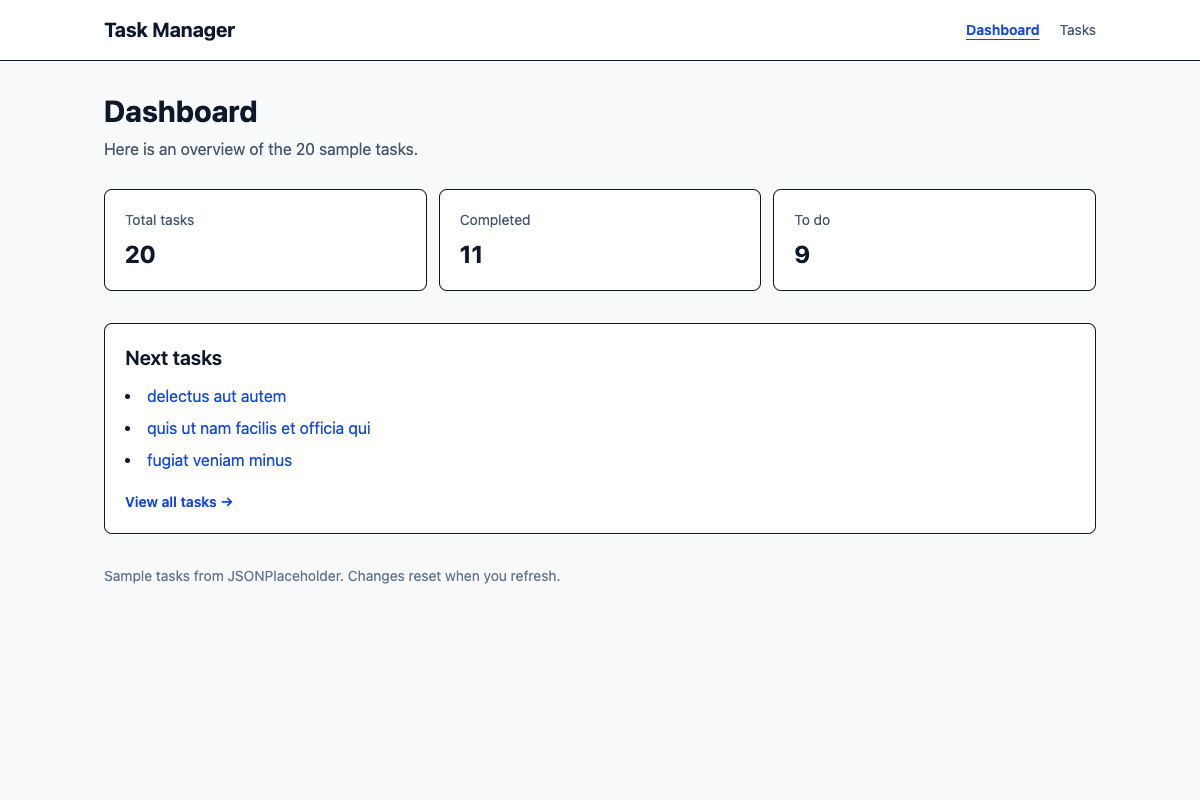
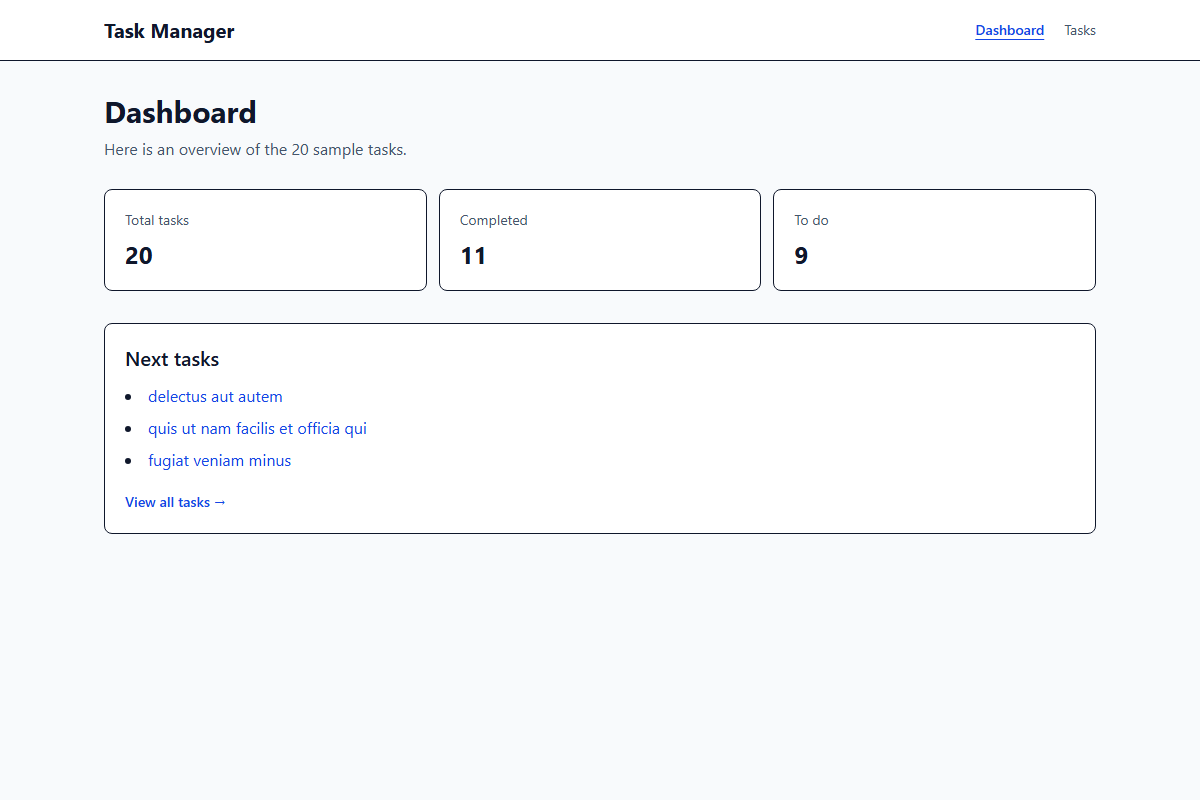
Update project documentation and dashboard screenshot

diff --git a/src/App.jsx b/src/App.jsx
@@ -47,9 +47,6 @@ function App() {
         </Routes>
       </main>
 
-      <footer className="mx-auto max-w-5xl px-4 pb-8 text-sm text-slate-500">
-        Sample tasks from JSONPlaceholder. Changes reset when you refresh.
-      </footer>
     </div>
   )
 }

diff --git a/README.md b/README.md
@@ -1,43 +1,34 @@
-# Task and Productivity Manager
+# Mini-project 1 - React Task & Productivity Manager
 
-This is a simple, responsive task manager built for Mini Project 1. It shows 20 sample tasks from JSONPlaceholder, lets you search and filter them, and lets you mark tasks as completed during your current visit.
+## Task and Productivity Manager
 
-## Features and routes
+A responsive task manager that displays 20 sample tasks, lets you search and filter them, and lets you change their completion status during your visit. It uses JSONPlaceholder for sample data, so status changes reset when the page is refreshed.
 
-| Route | What it shows |
-| --- | --- |
-| `/` | Dashboard with task counts and the next tasks to do. |
-| `/tasks` | Searchable task list with All, To do, and Completed filters. |
-| `/tasks/:id` | A single task's title, status, assigned user, and completion button. |
+## Features
 
-The completion button updates React state shared across the routes. JSONPlaceholder is a read-only sample data source for this app, so changes are **temporary** and reset when the page is refreshed. There is no account or permanent task storage.
+- `/` — Dashboard with total, completed, and to-do counts plus the next tasks to do.
+- `/tasks` — Searchable task list with All, To do, and Completed filters.
+- `/tasks/:id` — Task details with title, status, assigned user, and a button to change the status.
+- Public API: [JSONPlaceholder](https://jsonplaceholder.typicode.com/) supplies tasks through `GET /todos?_limit=20` and individual tasks through `GET /todos/:id`.
+- TanStack Query handles fetching and caching. The app displays loading, error, and empty states, offers a retry button for failed requests, and shows a not-found message for missing tasks.
 
-## Public API and data states
+### Screenshots
 
-The app uses [JSONPlaceholder](https://jsonplaceholder.typicode.com/):
-
-- `GET /todos?_limit=20` loads the dashboard and task list.
-- `GET /todos/:id` loads a task detail page.
-
-TanStack Query manages these requests and caches them under `['todos', { limit: 20 }]` and `['todo', id]`. The app shows a loading message while fetching, an error message with a **Try again** button when a request fails, and an empty message if the list is empty or a search has no matches. A missing task ID shows **Task not found**. Queries use a 60-second stale time and do not automatically retry errors.
-
-## Screenshots
-
-### Dashboard (`/`)
+#### Dashboard (`/`)
 
 ![Dashboard showing task counts and next tasks](docs/screenshots/dashboard.png)
 
-### Tasks (`/tasks`, mobile width)
+#### Tasks (`/tasks`)
 
 ![Mobile task list with search, filter, and task cards](docs/screenshots/tasks-mobile.png)
 
-### Task detail (`/tasks/1`)
+#### Task detail (`/tasks/1`)
 
 ![Task detail showing task status and completion button](docs/screenshots/task-detail.png)
 
-## Run locally
+## Setup
 
-Requirements: Node.js and npm.
+Requires Node.js and npm. Clone the repository and start the development server:
 
 ```bash
 git clone https://github.com/ruphina-cylix/mini_project_emeritus.git
@@ -46,15 +37,8 @@ npm install
 npm run dev
 ```
 
-Open the local address printed by Vite. The GitHub repository is private, so access is required to clone it.
-
-Useful checks:
-
-```bash
-npm run lint
-npm run build
-```
+Open the local URL printed by Vite. Access to the private GitHub repository is required to clone it.
 
 ## Tech stack
 
-React, React Router, TanStack Query, Tailwind CSS, Vite, and ESLint.
+React, React Router, TanStack Query, Tailwind CSS, and Vite.
